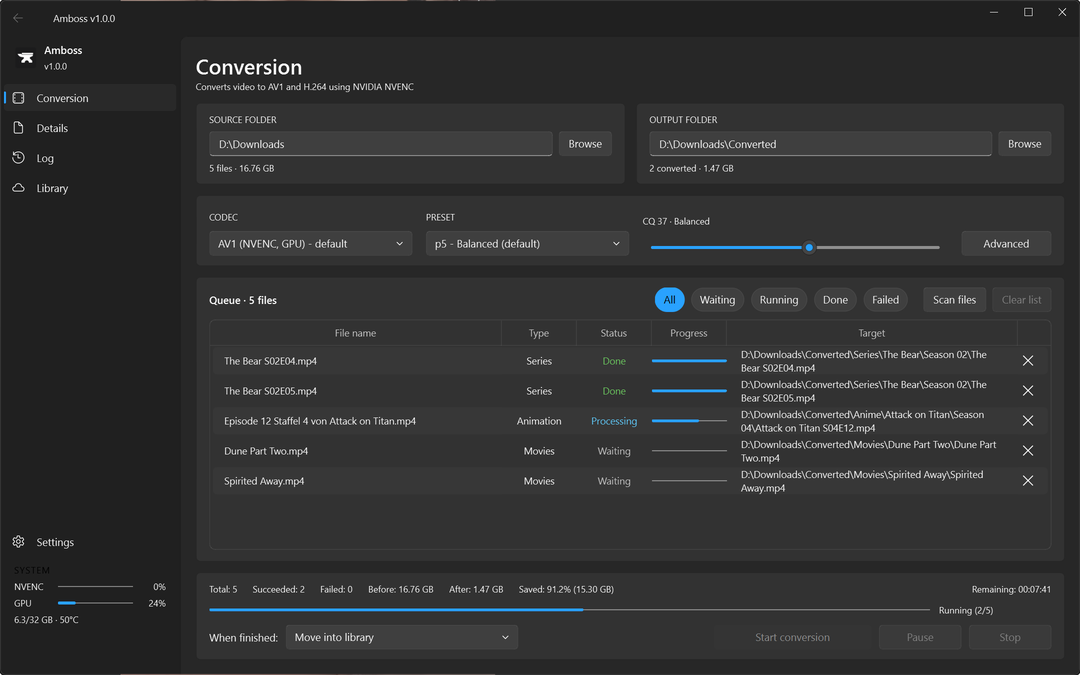
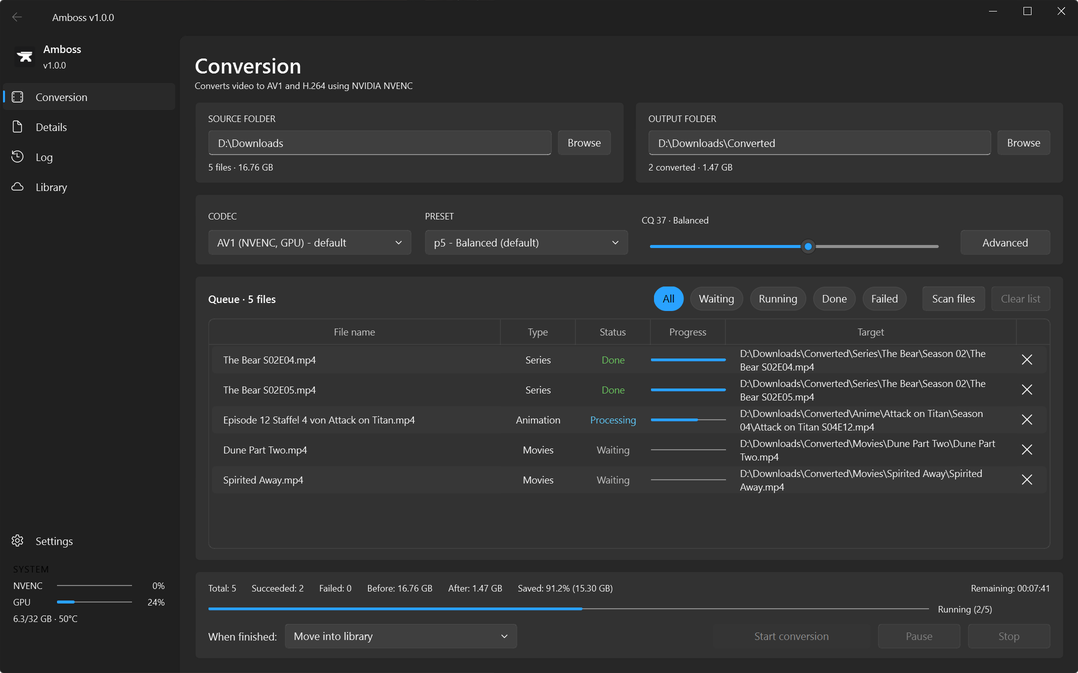
Document encoder support and remove window border from screenshots
Adds a support matrix covering NVIDIA, AMD, Intel and software encoding, so
the scope is visible without reading the requirements in prose. AMD and Intel
are marked as not implemented rather than untested: NVENC-specific parameters
are rejected by FFmpeg during option parsing, before any GPU is involved.

Screenshots were captured at the window rectangle, which includes the
translucent border Windows draws around a window. That border takes on the
colour behind it, leaving a strip of the desktop wallpaper along the top edge.
The outermost pixel ring is now trimmed.

diff --git a/README.md b/README.md
@@ -84,26 +84,37 @@ completion, and an optional shutdown afterwards.
 - An NVIDIA GPU with NVENC — see below
 - FFmpeg and FFprobe available on `PATH`
 
-### Hardware support
+### Encoder support
 
-**Encoding requires NVIDIA hardware.** Amboss drives NVENC through FFmpeg and
-passes NVENC-specific parameters throughout. AMD (AMF) and Intel (Quick Sync)
-are not merely untested — they are not implemented, and FFmpeg rejects the
-current parameters before it ever reaches the GPU. Support for them, and for
-CPU-based encoding as a universal fallback, may be added later.
+The table describes what Amboss implements, which is narrower than what the
+hardware can do.
 
-| Codec | Requirement |
-|---|---|
-| AV1 | GeForce RTX 4000 series or newer |
-| H.264 | Practically any NVIDIA GPU of the past decade |
+| Encoder | AV1 | H.264 | H.265 |
+|---|:--:|:--:|:--:|
+| **NVIDIA** — NVENC | ✔ | ✔ | ✘ |
+| **AMD** — AMF | ✘ | ✘ | ✘ |
+| **Intel** — Quick Sync | ✘ | ✘ | ✘ |
+| **CPU** — software encoding | ✘ | ✘ | ✘ |
+
+✔ available · ✘ not implemented
+
+AV1 through NVENC requires a GeForce RTX 4000 series card or newer. H.264 works
+on practically any NVIDIA GPU of the past decade.
+
+AMD and Intel are not simply untested. Amboss passes NVENC-specific parameters
+throughout — `-cq` for quality, `-preset p1…p7` for speed — and FFmpeg rejects
+those for other encoders while still parsing options, long before a GPU is
+involved. Supporting them means mapping every parameter per encoder, which is
+planned rather than pending, alongside software encoding as a fallback for
+machines without a suitable GPU and H.265 for players that predate AV1.
 
 Worth separating, because it is a common source of confusion: playing AV1 back
 and producing it are two different hardware capabilities. Nearly every recent
-GPU — integrated graphics included — decodes AV1; far fewer can encode it. An
+GPU, integrated graphics included, decodes AV1; far fewer can encode it. An
 RTX 3080 plays AV1 without effort but cannot create it.
 
-Amboss checks the selected encoder against FFmpeg on startup and reports a
-missing one rather than failing mid-run.
+Amboss verifies the selected encoder against FFmpeg on startup and reports a
+missing one rather than failing part-way through a batch.
 
 ## Installation
 
